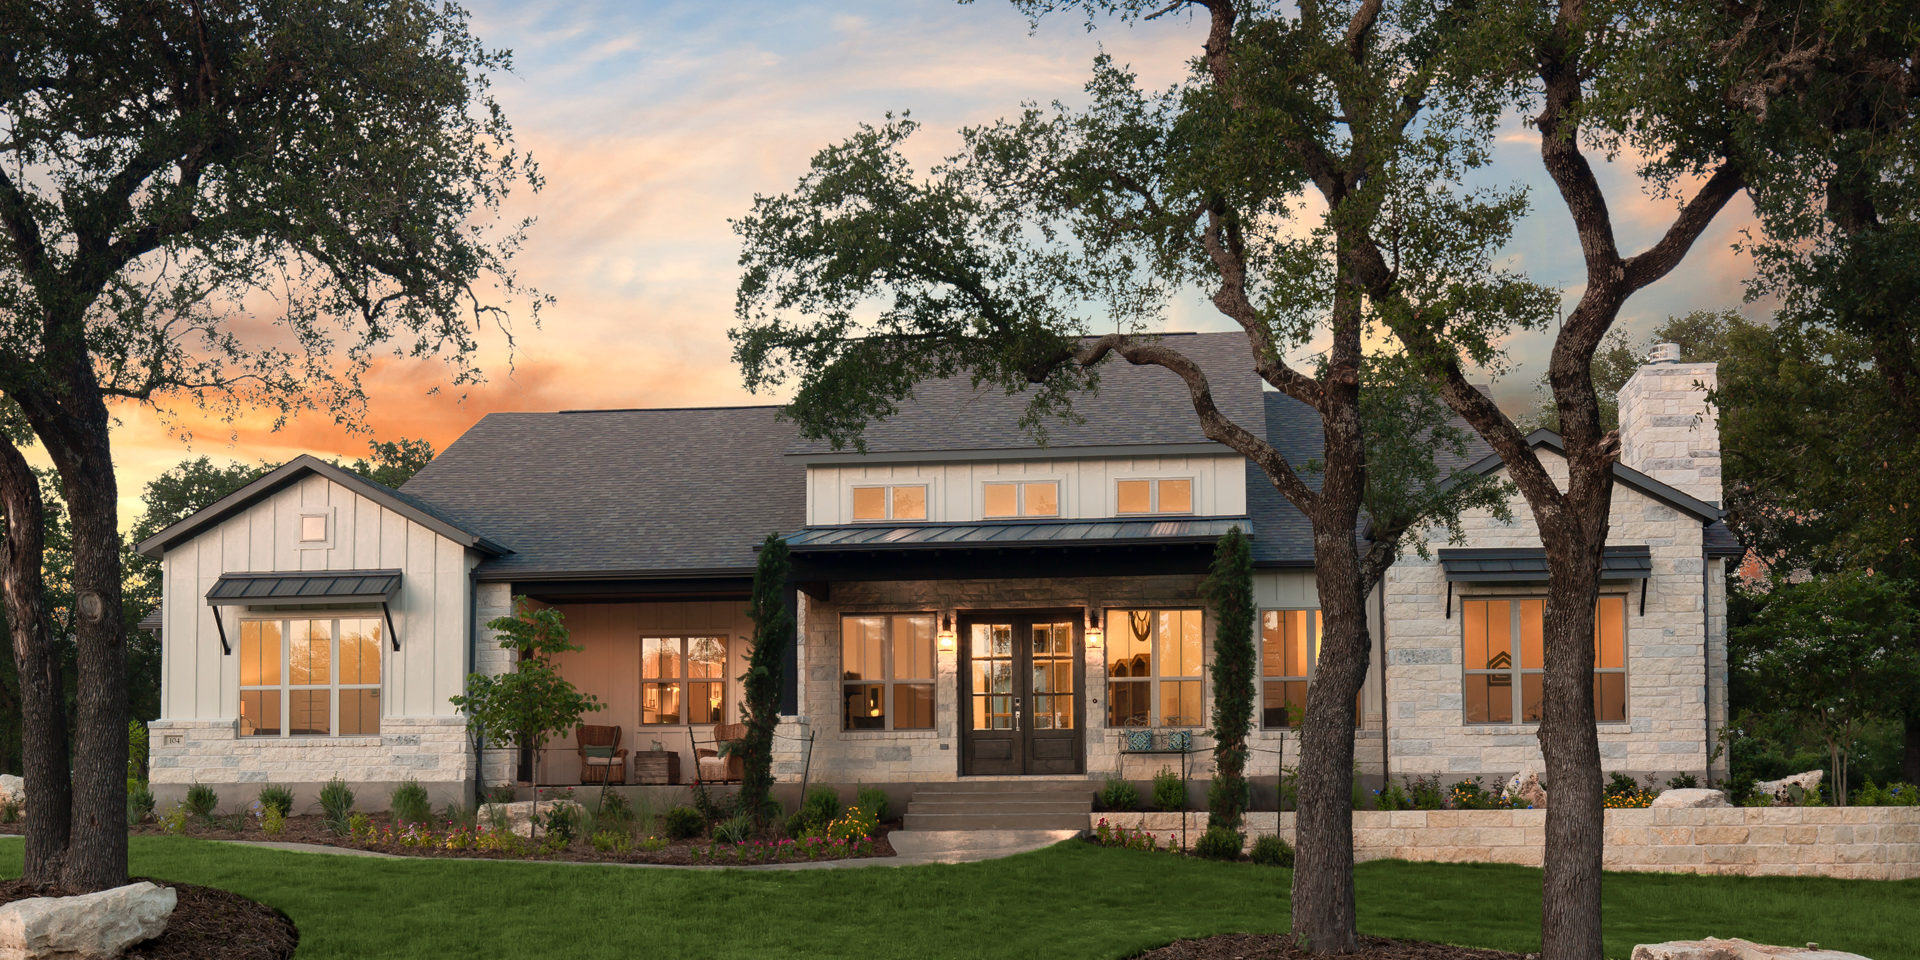
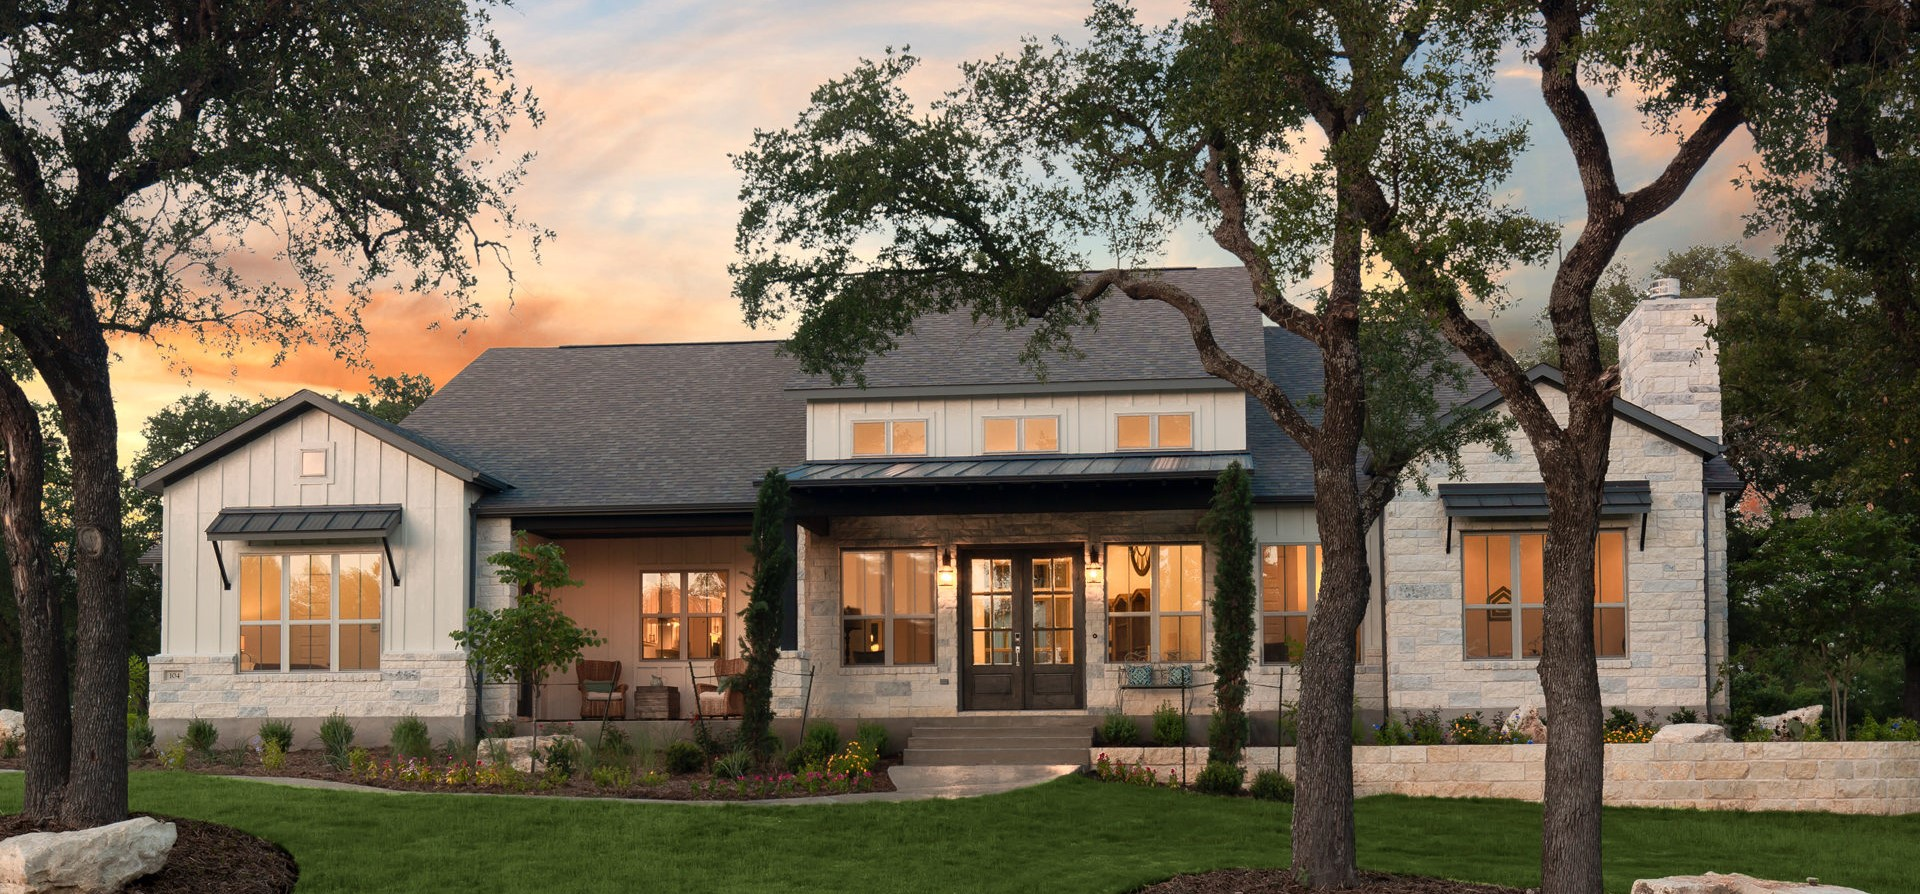
changed aspect ratio and size of carousel images

diff --git a/src/components/header.js b/src/components/header.js
@@ -6,15 +6,17 @@ const Header = () => {
   const styles = {
     image: {
       backgroundImage: `url(${background})`,
-      height: "auto",
+      height: "100%",
       backgroundPosition: "center",
       backgroundRepeat: "no-repeat",
       backgroundSize: "cover",
+      objectFit: "cover",
+      display: "block",
     },
   };
 
   return (
-    <Jumbotron fluid className="lead  mb-0" style={styles.image}>
+    <Jumbotron fluid className="lead mb-0" style={styles.image}>
       <Container fluid>
         <h1>Welcome!</h1>
         <p>

diff --git a/src/components/carousel.js b/src/components/carousel.js
@@ -1,12 +1,11 @@
 import React from "react";
 import Carousel from "react-bootstrap/Carousel";
-import BP from "../assets/blueprints2.jpg";
+import BP from "../assets/blueprints.jpg";
 import Construction from "../assets/house-with-blueprint.jpg";
-import CompModel from "../assets/3d.jpg";
+import CompModel from "../assets/3dRender.jpg";
 import Finished from "../assets/finishedHome.jpg";
 
-const Caro = (props) => {
-  const picHeight = "885px";
+const Caro = () => {
 
   const styles = {
     overlay: {
